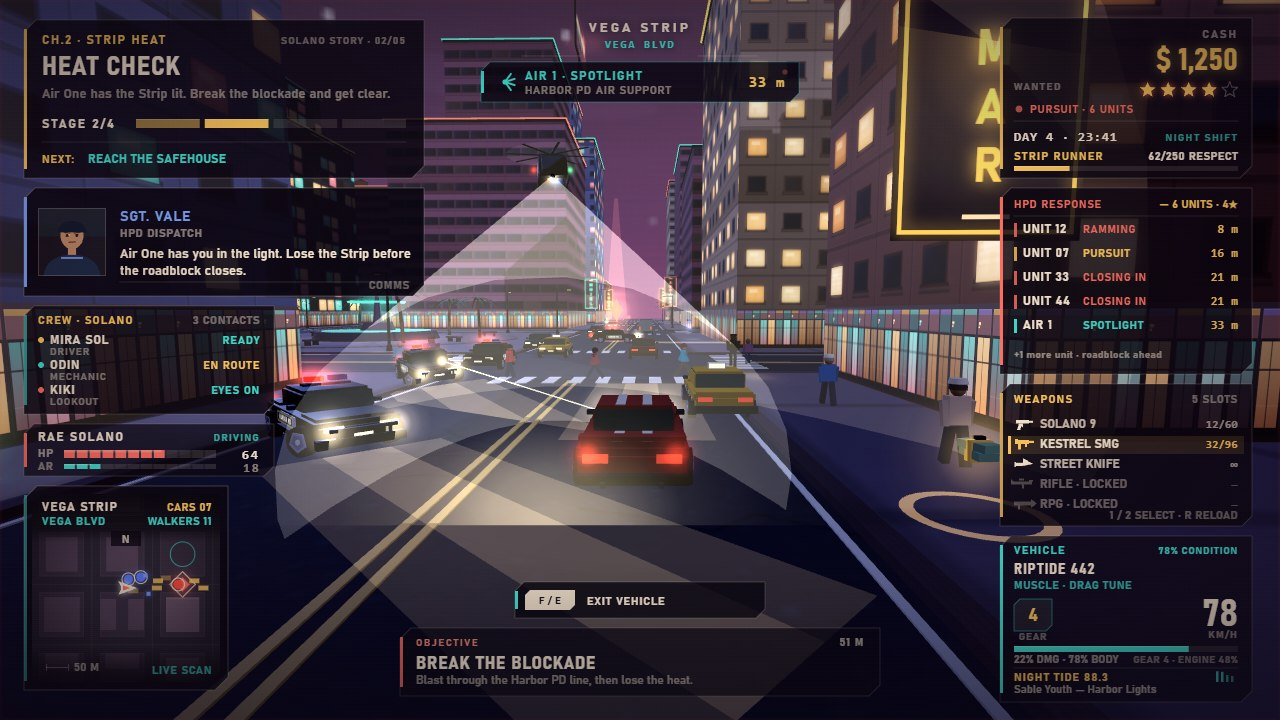
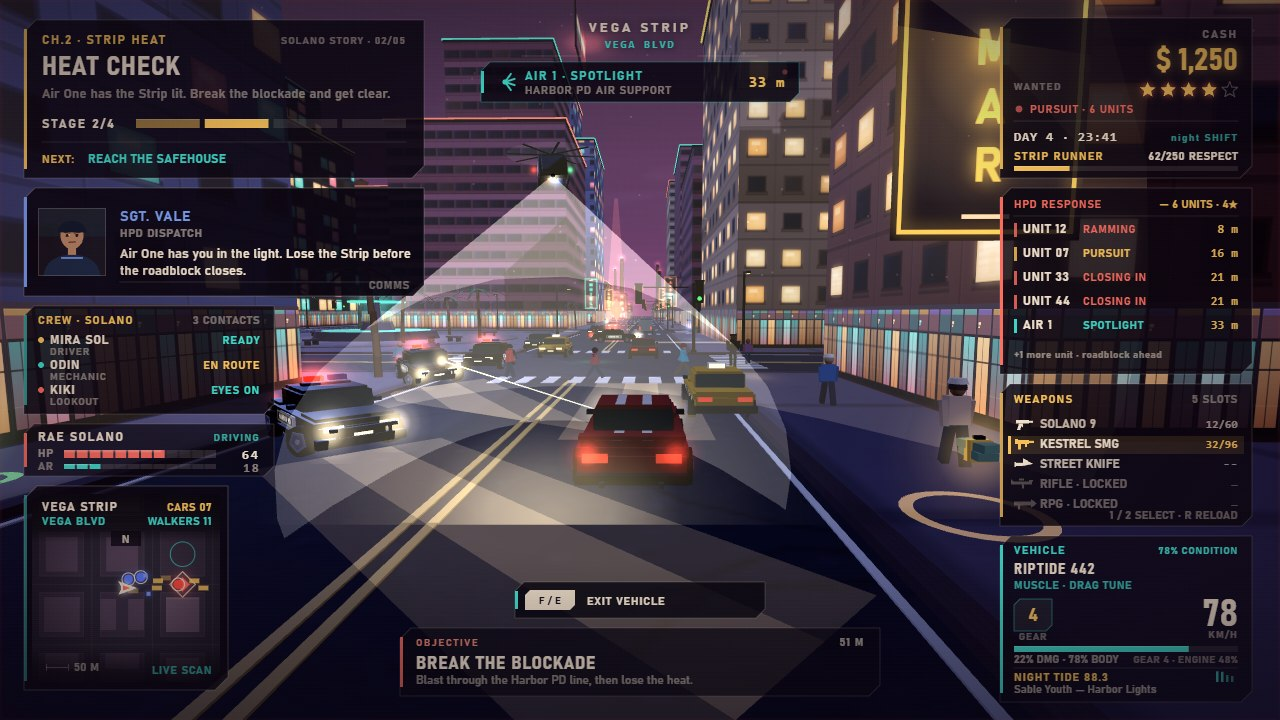
Document the living city and capture a daylight frame
Update the README for the 9x9 grid, Old Town and Foundry, the 96/18 crowd,
the shared signals, wall collision, the four-period clock and its save,
the measured 370-call / 4.7 ms chase frame and the 128-check suite. Add
the ?time= capture override, pin the roadblock to 10:30, regenerate the
four screenshots, and record the measured baseline correction in the
design spec.

diff --git a/game/index.html b/game/index.html
@@ -456,7 +456,7 @@
           <span>Quality</span><span class="btn-note" id="quality-note">High</span>
         </button>
       </nav>
-      <p class="title-hint">Neon night · Day 4 · 23:41 · Walk into a story marker · F / E to drive · LMB to draw</p>
+      <p class="title-hint">A living harbor · Day 4 · 18:00 · Walk into a story marker · F / E to drive · LMB to draw</p>
     </div>
     <div class="title-side">
       <div class="loc-chips"><span>Vega Strip</span><span>Luna Plaza</span><span>Pier 9</span></div>

diff --git a/README.md b/README.md
@@ -8,10 +8,12 @@
 
 Neon Harbor is an original third-person open-world crime game for the desktop
 browser. It runs from plain static files with no build step, no package
-install and no network request after the page loads. The setting is a
-neon-night coastal city: six by six blocks of low-rise storefronts and
-downtown towers, a wide beach, a long pier, a working lighthouse, palms,
-streetlights and hand-built neon under a deep indigo sky.
+install and no network request after the page loads. The setting is a coastal
+city with a living clock: nine by nine blocks of low-rise storefronts and
+downtown towers, the brick market lanes of Old Town, the rail yards and
+smokestacks of the Foundry, a wide beach, a long pier, a working lighthouse,
+palms, streetlights and hand-built neon, from dawn through noon to a deep
+indigo night.
 
 You play courier **Rae Solano**, back in the harbor to settle a family debt.
 The build is the whole first chapter: a seeded city, a third-person camera
@@ -76,10 +78,10 @@ same mouse drag looks around. **Enter** confirms the focused menu action.
   moves between high (shadows, full pixel ratio) and low (no shadows, lighter
   pixel ratio) without a reload.
 
-**New Game** starts on Vega Strip beside a parked Riptide, facing the water.
-**Continue** returns to the last pause or save, including the story index,
-cash, health, armor, weapons, ammo, position and any heat that was still on
-you.
+**New Game** starts on Vega Strip at 18:00 on day four, in the last light,
+beside a parked Riptide and facing the water. **Continue** returns to the last
+pause or save, including the story index, cash, health, armor, weapons, ammo,
+position, the time of day and any heat that was still on you.
 
 ## The Solano story
 
@@ -119,27 +121,60 @@ safehouse at `(-71.5, 36.6)` is the save point. Every completed mission, cash
 pickup, delivery, heat run and safehouse visit writes progress through
 `save.js`. Settings (quality, volume, mute) live in their own key; the save
 carries cash, health, armor, wanted stars, mission index, story-complete flag,
-weapons, ammo, camera yaw and position.
+weapons, ammo, camera yaw, position, the minute of day and the day number.
 
 ## The city
 
 The whole harbor is built from one seed in `game/src/config.js`, so every
 tower, window layout and sign lands in the same place on every load. Roads
-form a seven-line grid with lane paint, crossings and raised sidewalks.
-Buildings use eight facade palettes with punched, ribbon and glass window
-patterns, floor bands, lit rooms with blinds and curtains, rooftop tanks and
-antennas, emissive storefronts and neon boards. Landmarks include the Sunset
-Hotel tower, Casa Luna on the beach, Motor Row, the Luna Plaza fountain, the
-radio mast, the Vega Strip arch, Pier 9 and its lighthouse.
+form a ten-line grid — nine blocks each way — with lane paint, crossings and
+raised sidewalks. The original six-by-six core keeps its exact towers,
+storefronts and signs; the extension grows two districts around it. **Old
+Town** to the north is low brick with striped awnings, chimneys and an open
+market square of eight stalls, a bandstand and a pylon sign. **The Foundry**
+to the east is a yard district of wide shallow warehouses, steel rails and
+brick smokestacks with red aircraft lights. Buildings use eight facade
+palettes with punched, ribbon and glass window patterns, floor bands, lit
+rooms with blinds and curtains, rooftop tanks and antennas, emissive
+storefronts and neon boards. Landmarks include the Sunset Hotel tower, Casa
+Luna on the beach, Motor Row, the Luna Plaza fountain, the radio mast, the
+Vega Strip arch, Pier 9 and its lighthouse.
 
-It is 23:41 on the fourth night. A moon and a field of stars sit over the
-harbor, a magenta band of city light pollution hangs on the horizon, and cool
-moonlight plus the warm emissive windows and neon carry the scene. Instanced
-pools under the streetlights and blade signs spill colour onto the pavement.
-The water plane scrolls its surface texture, the foam breathes, a points cloud
-supplies the night glitter, the lighthouse beam turns, and cloud sprites drift
-over the skyline. A typical 1280×720 frame in this build uses roughly 250–450
-draw calls and runs comfortably above 60 fps on a desktop GPU.
+## Times of day
+
+`environment.js` owns one clock and the palette it drives. A New Game starts
+at **18:00 on day four**; the clock runs one in-game minute per two real
+seconds, so a full day takes 48 real minutes and the HUD's `DAY n · HH:MM`
+line advances through it. Continue restores the saved minute and day.
+
+| Period | Clock | What the palette does |
+| --- | --- | --- |
+| Dawn | 05:00–07:00 | rose fog, a low amber sun, windows and lamps half on |
+| Day | 07:00–17:00 | pale blue sky, a high white sun, windows and neon dimmed, no lamp pools or headlight beams |
+| Dusk | 17:00–19:00 | orange horizon, long shadows, windows and signs coming up |
+| Night | 19:00–05:00 | the indigo-to-magenta sky, the moon and stars, full neon, lamp pools and headlights |
+
+Each boundary gets a sixty-minute smoothstep blend. The palette is one blend
+of fog colour and distance, hemisphere and ambient light, sun direction and
+warmth, exposure, sky texture crossfade, star opacity, moon and sun sprites,
+window emission, crown and pier neon, street-lamp colour and pools, car
+headlight brightness, and water tint and sparkle. The night keeps the moon,
+the magenta band of city light pollution on the horizon, cool moonlight plus
+warm emissive windows, instanced pools under the streetlights and blade signs,
+the scrolling water, the turning lighthouse beam and drifting clouds.
+
+A `?shot=` capture pins the clock at **23:41** so the screenshots are
+repeatable; `?time=HH:MM` overrides it for any shot or free-play load. The day
+screenshot in this README is the same blockade pose captured with
+`?time=10:30`.
+
+A typical 1280×720 frame in this build uses about **370 draw calls** at the
+chase shot, with a **4.7 ms** median frame in headless Chrome on the build
+machine; the pre-living-city base measures 433 and 4.9 ms on the same
+harness. Static glows share one instanced billboard field, each car's four
+wheels are one instanced mesh, and the Air 1 airframe is merged per material,
+so the larger city and crowd cost less per frame than the old six-by-six
+build.
 
 ## Traffic and driving
 
@@ -155,14 +190,26 @@ handbrake, ground-following pitch and roll on curbs and the pier ramp,
 building collision, and a pooled skid-mark ribbon. Engine state is exposed per
 vehicle for audio.
 
-`traffic.js` keeps cars in the grid lanes and runs a two-phase signal at every
-intersection. Cars brake for the stop line, keep a following gap to anything in
-their lane, wait for pedestrians in the crosswalk, and recycle in and out of
-view around the player. Pedestrians loop the block sidewalks, stop at corners,
-cross at the painted crosswalks, and gather on the pier and the beach. The
-whole crowd is drawn through instanced meshes, so the street stays fluid with a
-few dozen people on screen. The minimap mirrors the traffic with vehicle blips,
-and the HUD reports the live car and walker counts.
+`traffic.js` keeps up to **18 cars** in the grid lanes and fills the blocks
+with **96 pedestrians**: a 48-walker sidewalk crowd that loops the block
+edges, 22 people on the beach and the pier, and crosswalk pedestrians. Cars
+brake for the stop line, keep a following gap to anything in their lane, wait
+for pedestrians in the crosswalk, and recycle in and out of view around the
+player. The whole crowd is drawn through instanced meshes, so the street stays
+fluid with a full crowd on screen.
+
+Every one of the 100 intersections has a visible signal (`traffic-signals.js`):
+a pole and two heads, one colour-and-axis instanced lamp set each, and a small
+night pool. The lamps and the car rule call the same `signalState()` — green
+for 7.5 s, amber for 1.5 s, red for the other axis — so a driving light and a
+stopping car cannot disagree. The minimap mirrors the traffic with vehicle
+blips and the HUD reports the live car and walker counts.
+
+Pedestrians never walk through a building. `world.resolveCircle()` pushes the
+walker out of the nearest collider and `walkToward()` tries the full step,
+then x-only, then z-only, then stops and lets the block loop pick another
+corner. Foot officers and mission enemies use the same resolve, so a chase
+around a corner slides along the wall instead of clipping through it.
 
 ## Heat and combat
 
@@ -250,7 +297,8 @@ blips, mission enemies in coral and the objective marker, plus the crew panel
 (Mira Sol, Odin and Kiki with live role/status lines) and an NPC dialogue box
 with a drawn portrait, speaker name, role and line. The right rail carries the
 cash card, five wanted stars, `PURSUIT · 6 UNITS` or the search status, the
-`DAY 4 · 23:41` clock, the `STRIP RUNNER · 62/250 RESPECT` meter, the HPD
+`DAY 4 · 18:00` clock with a live `DAWN / DAY / DUSK / NIGHT SHIFT` label,
+the `STRIP RUNNER · 62/250 RESPECT` meter, the HPD
 response roster with named callsigns, roles and distances, the five-slot weapon
 strip (Solano 9, Kestrel SMG, the always-carried street knife at slot 3 with
 `--` ammo and a `STREET KNIFE · CQC` footer, and locked rifle and RPG slots),
@@ -284,7 +332,7 @@ composited and no filters are applied.
 
 | | |
 | --- | --- |
-| ![Night chase on Vega Strip](screenshots/1-cover.jpg)<br>**1-cover.jpg · Night chase** | ![HPD roadblock at four stars](screenshots/2-street.jpg)<br>**2-street.jpg · Roadblock** |
+| ![Night chase on Vega Strip](screenshots/1-cover.jpg)<br>**1-cover.jpg · Night chase** | ![Daylight HPD roadblock](screenshots/2-street.jpg)<br>**2-street.jpg · Daylight roadblock** |
 | ![Pier 9 burning](screenshots/3-mission.jpg)<br>**3-mission.jpg · Pier 9 burning** | ![Title screen over the night skyline](screenshots/4-title.jpg)<br>**4-title.jpg · Title** |
 
 What each shot shows:
@@ -294,9 +342,11 @@ What each shot shows:
   the MART neon, Air 1 and its searchlight overhead, and the full HUD at once:
   CH.2 mission card, six-unit response roster, Sgt. Vale dispatch dialogue,
   crew panel, five-slot weapon strip and the Riptide vehicle card at 78 km/h.
-- `2-street.jpg` — `?shot=blockade`: an HPD roadblock on Vega Strip at four
-  stars, the six-unit roster with RAMMING, SPOTLIGHT, CLOSING IN and ROADBLOCK
-  entries, Sgt. Vale on the radio, and the player caught in Air 1's beam.
+- `2-street.jpg` — `?shot=blockade&time=10:30`: the same roadblock in
+  daylight, proving the living clock: pale blue sky, a high sun, long building
+  shadows, dimmed windows and neon, and the four-star roster with RAMMING,
+  SPOTLIGHT, CLOSING IN and ROADBLOCK entries. The HUD reads
+  `DAY 4 · 10:30 · DAY SHIFT`.
 - `3-mission.jpg` — `?shot=heist`: the Pier 9 docks at night, the lighthouse,
   burning barrels, Aurelio's enforcers and tracers, the CH.5 · LAST EXIT /
   PIER 9 BURNING card, the `CLEAR PIER 9` objective and the Pier 9 minimap.
@@ -306,8 +356,11 @@ What each shot shows:
 Every shot builds the real world, player, police or mission director, weapons,
 effects and HUD, runs a fixed number of simulation steps and then freezes. Shot
 mode forces high quality, suppresses toasts and the fresh-slot title card, and
-does not depend on pointer lock or the wall clock. The other staged poses
-(`street`, `drive`, `mission`, `pier`) remain available for development checks.
+does not depend on pointer lock or the wall clock. `tools/capture.mjs` pins the
+cover, heist and title to the shot clock (23:41) and the roadblock to
+`?time=10:30`, so the four-image contact sheet shows both ends of the living
+clock. The other staged poses (`street`, `drive`, `mission`, `pier`) remain
+available for development checks.
 
 ## Build the entry
 
@@ -361,8 +414,28 @@ the fall state and corpse cleanup, the 14 m panic radius and 6 s flee and
 recovery, loot pickup and its 30-second expiry, reset, the real
 `player.fireWeapon` path and officer death loot, the murder-heat 911 delay and
 its police-witness shortcut, the knife's slot-3 selection, 1.5 m lethal reach
-and silent gunfire-free kill, and the armed witness's draw, first shot and
-45 m give-up.
+and silent gunfire-free kill, the armed witness's draw, first shot and
+45 m give-up, plus three groups added with the living city:
+
+- **crowd density** — the 96/48/22/18 targets, all 22 beach walkers seeded, no
+  two pedestrians sharing a slot, the 48-walker sidewalk fill, and a free slot
+  still available after the fill;
+- **traffic signals** — a signal at every one of the 100 intersections, the
+  green/amber/red rule at seven times, and the visible lamp sets matching the
+  state at green, amber and the switch;
+- **pedestrian collision** — a target straight through a known building, the
+  stop at the wall face, a reachable target still reached, forward progress
+  along a wall, and 60 simulated seconds with no live walker inside a collider.
+
+The suite prints one `ok`/`not ok` line per check and exits non-zero on a
+failure; the last run passed all 128 checks.
+
+```bash
+node --test test/loot.test.mjs     # pure loot table
+node tools/test-npc-loot.mjs       # headless Chrome end-to-end, 128 checks
+MAKEFUN_OUTPUT_DIR=out node main.ts --check   # entry caps, one summary line
+```
+
 Set `CHROME` to a Chrome or Chromium executable if the default lookup misses.
 
 ## Source map
@@ -371,20 +444,28 @@ Set `CHROME` to a Chrome or Chromium executable if the default lookup misses.
   reporter.
 - `game/src/main.js` — boot, fixed-step loop, screen state machine, quality,
   save wiring, vehicle entry/exit, radio state and deterministic shot staging.
-- `game/src/world.js` — city generation, ground/collision/camera queries, beach,
-  pier, lighthouse, ocean, the night sky and moon, lights, signs, light pools
-  and animation.
+- `game/src/world.js` — nine-by-nine city generation, Old Town and the
+  Foundry, the market square, ground/collision/camera queries, beach, pier,
+  lighthouse, ocean, the four sky textures, sun and moon, lights, signs, the
+  merged glow field and animation.
+- `game/src/environment.js` — the 24-hour clock, the dawn/day/dusk/night
+  palettes, the boundary blend, `?time=` parsing and the renderer/scene apply
+  step.
+- `game/src/glow-field.js` — one instanced camera-facing quad mesh for the
+  static glow sprites (aircraft beacons, street lamps, pier bulbs, sign spill),
+  with per-item colour and brightness.
 - `game/src/geo.js` — reusable mesh, facade, sign and billboard factories, and
   the geometry merge.
-- `game/src/vehicles.js` — seven vehicle classes, meshes, arcade physics,
-  lights and pooled skid marks.
-- `game/src/traffic.js` — lane traffic, signals, following, pedestrians,
-  crosswalk crossings, beach/pier crowd, panic and armed witnesses, and shot
-  staging.
+- `game/src/vehicles.js` — seven vehicle classes, meshes, instanced wheels,
+  arcade physics, lights and pooled skid marks.
+- `game/src/traffic.js` — 18 lane cars, the 96-slot crowd, crosswalk crossings,
+  beach/pier crowd, panic and armed witnesses, wall sliding, and shot staging.
+- `game/src/traffic-signals.js` — the shared 18 s signal clock, the merged
+  pole/housing mesh, the six instanced lamp sets and the night pool.
 - `game/src/police.js` — wanted level, pursuit driving, search/decay, cruiser
   and officer combat, civilian murder reports and the 911 call, roadblocks,
-  callsigns, the Air 1 helicopter and its searchlight, the response roster,
-  busted/wasted handshake and chase staging.
+  callsigns, the merged Air 1 airframe and its searchlight, the response
+  roster, busted/wasted handshake and chase staging.
 - `game/src/missions.js` — the five-mission director: markers, dialogue queue,
   mission enemies and bosses, objectives, timers, rewards, failure and retry,
   pier fire, and mission/heist staging.
@@ -407,11 +488,13 @@ Set `CHROME` to a Chrome or Chromium executable if the default lookup misses.
   street-job panels, crosshair, rewards and failure/down/ending screens.
 - `game/src/input.js` — keyboard, mouse, wheel, pointer lock and mouse edges.
 - `game/src/save.js` — guarded localStorage save, story/mission index, weapons,
-  quality, volume and mute settings.
-- `game/src/random.js`, `config.js` — seeded RNG, the night clock, district and
-  street names, tune labels and shared constants.
+  clock minute and day, quality, volume and mute settings.
+- `game/src/random.js`, `config.js` — seeded RNG, the city dimensions and road
+  grid, the clock constants, district and street names, tune labels and shared
+  constants.
 - `game/src/shots.js` — the fixed `start`, `street`, `blockade`, `drive`,
-  `chase`, `mission`, `heist` and `pier` screenshot poses.
+  `chase`, `mission`, `heist` and `pier` screenshot poses, each pinnable to a
+  different `?time=HH:MM`.
 - `game/vendor/` — three.js r180's minified module and core builds behind the
   one-line `three.module.js` shim.
 - `main.ts`, `serve.ts`, `vendor/makefun-game.ts` — entrypoint, development
@@ -421,8 +504,9 @@ Set `CHROME` to a Chrome or Chromium executable if the default lookup misses.
   `docs/media/overview.gif` and `docs/media/combat.jpg`; needs ffmpeg on
   `PATH` or in `FFMPEG`.
 - `tools/test-npc-loot.mjs` — the stdlib-only headless-Chrome E2E for
-  pedestrian death, panic and loot, murder heat, the street knife and armed
-  witnesses across the frozen street and blockade scenes.
+  pedestrian death, panic and loot, murder heat, the street knife, armed
+  witnesses, crowd density, the intersection signals and pedestrian wall
+  collision across the frozen street and blockade scenes.
 
 ## Bounty and license
 

diff --git a/docs/superpowers/specs/2026-11-26-living-city-design.md b/docs/superpowers/specs/2026-11-26-living-city-design.md
@@ -49,6 +49,15 @@ stay where they are.
   baseline. Merge static geometry per block as the current world already
   does; do not add a draw call per building.
 
+**Measured 2026-11-26 (correction).** The 272 baseline was stale: the merged
+`night-final` base measures **433 draw calls and a 4.9 ms median** on the same
+headless harness. The finished branch measures **370 draw calls and a 4.7 ms
+median** at the same chase pose — 0.85x the base's calls and 0.96x its frame
+time — so the 1.4x / 1.3x budgets hold with room to spare. Getting under the
+absolute 380 took three batching passes the plan did not anticipate: one
+instanced billboard field for static glows, one instanced mesh for each car's
+four wheels, and a per-material merge of the Air 1 airframe.
+
 ## 2. Crowd density
 
 - `MAX_PEDS` 48 -> **96**; `SIDEWALK_TARGET` 24 -> **48**; `BEACH_TARGET`
